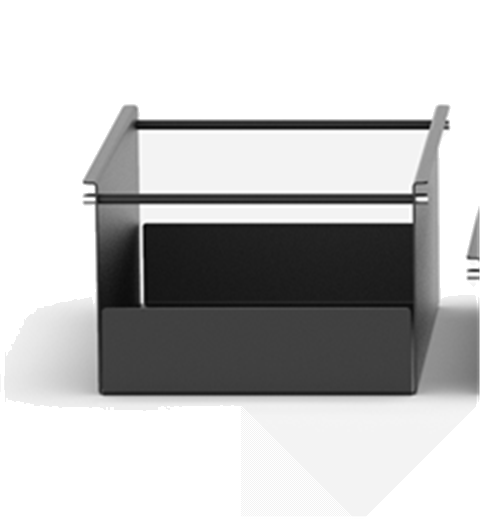
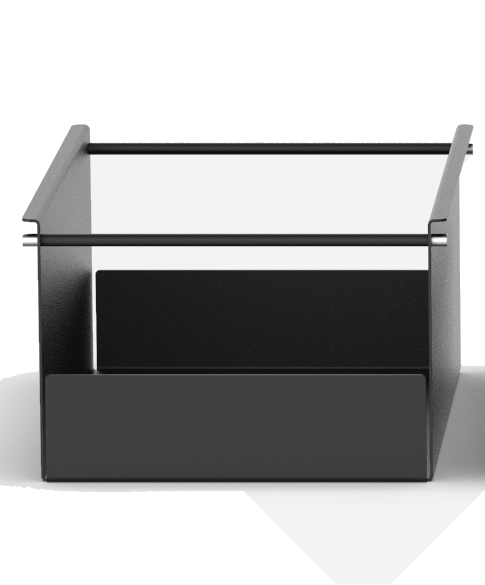
Use the newly organized individual drawer photos
Source each drawer's cutout from the user's reorganized per-color
folders (Schublade rot/weiss, schublade schwarz) instead of the
composite renders — cleaner individual crops with less background
removal guesswork. Both the tile thumbnails and the placed/dragged
drawer now share a single background-removed image per drawer,
dropping the separate opaque tile copies.

Also fix the placed drawer overlapping the trolley's photographed
wall on the right: widen the rails-frame's right inset and add a
1px safety margin on the drawer box itself.

diff --git a/js/script.js b/js/script.js
@@ -167,7 +167,7 @@
       tile.setAttribute('data-size', size);
       tile.innerHTML =
         (metalColor
-          ? '<img class="swatch-chip" src="assets/drawer-' + size + '-' + metalColor + '.png" alt="">'
+          ? '<img class="swatch-chip" src="assets/drawer-' + size + '-' + metalColor + '-cutout.png" alt="">'
           : '<div class="swatch-chip" style="background:repeating-linear-gradient(45deg,#ddd,#ddd 4px,#eee 4px,#eee 8px);"></div>') +
         '<div class="info"><div class="name">' + SIZE_NAMES[size] + '</div><div class="sub">' + SIZE_LEN[size] + (SIZE_LEN[size]===1?' Feld':' Felder') + '</div><div class="price">+ CHF ' + SIZE_PRICE[size] + '.– / Stk.</div></div>' +
         '<div class="stepper">' +
@@ -203,7 +203,7 @@
     tile.className = 'tile';
     tile.setAttribute('data-kind', 'wood');
     tile.innerHTML =
-      '<img class="swatch-chip" src="assets/drawer-wood.png" alt="">' +
+      '<img class="swatch-chip" src="assets/drawer-wood-cutout.png" alt="">' +
       '<div class="info"><div class="name">Holzplatte</div><div class="sub">' + WOOD_LEN + ' Felder</div><div class="price">+ CHF ' + WOOD_PRICE + '.– / Stk.</div></div>' +
       '<div class="stepper">' +
         '<button class="minus" ' + (count===0?'disabled':'') + '>–</button>' +

diff --git a/css/style.css b/css/style.css
@@ -350,8 +350,8 @@ h1.title{
 .rails-frame{
   position:absolute;
   top:5.8%;
-  left:4.5%;
-  right:5.5%;
+  left:5.5%;
+  right:7.5%;
   height:79.8%;
   overflow:hidden;
 }
@@ -372,7 +372,7 @@ h1.title{
 
 .drawer{
   position:absolute;
-  left:0; right:0;
+  left:1px; right:1px;
   border-radius:2px;
   cursor:grab;
   touch-action:none;
